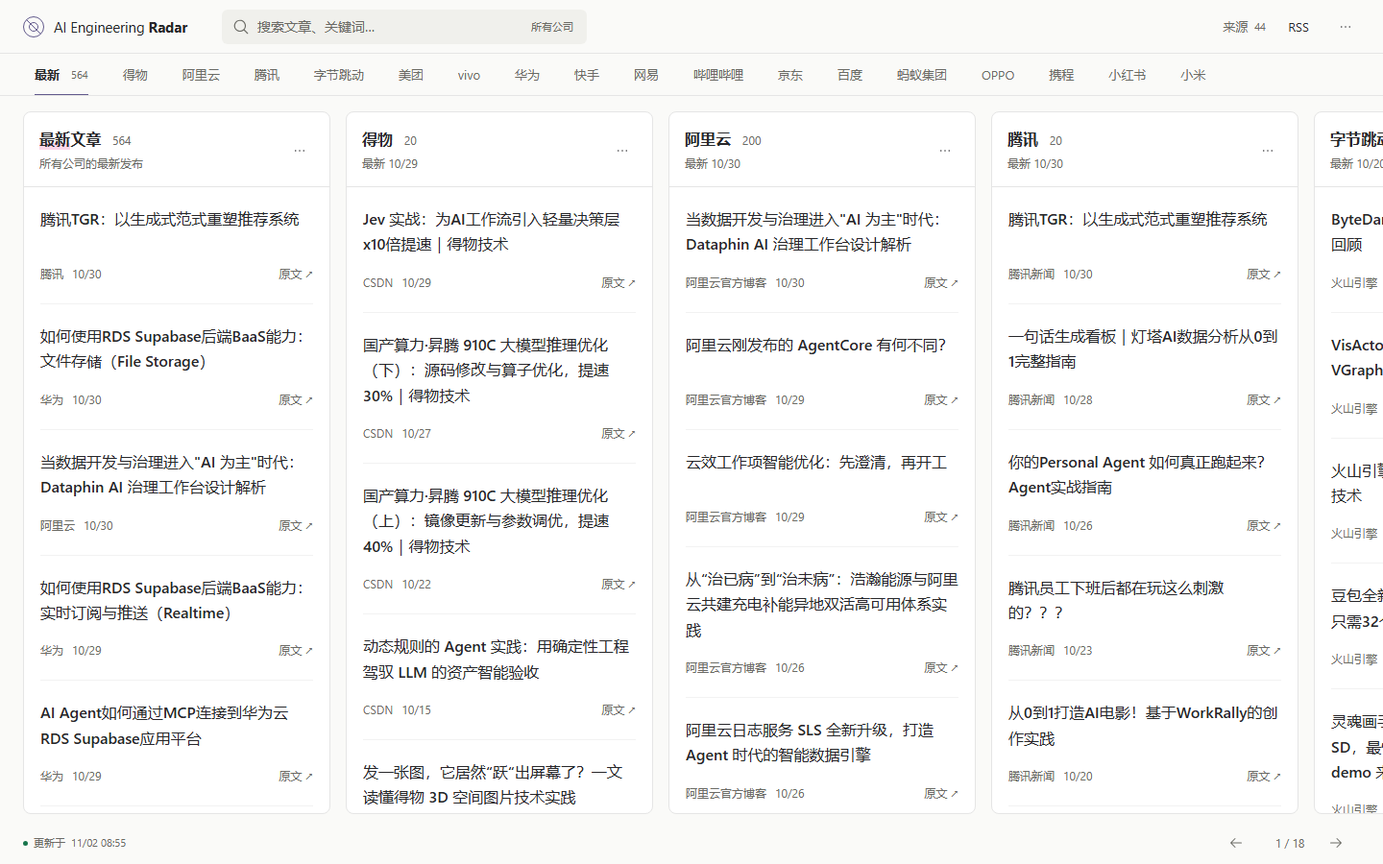
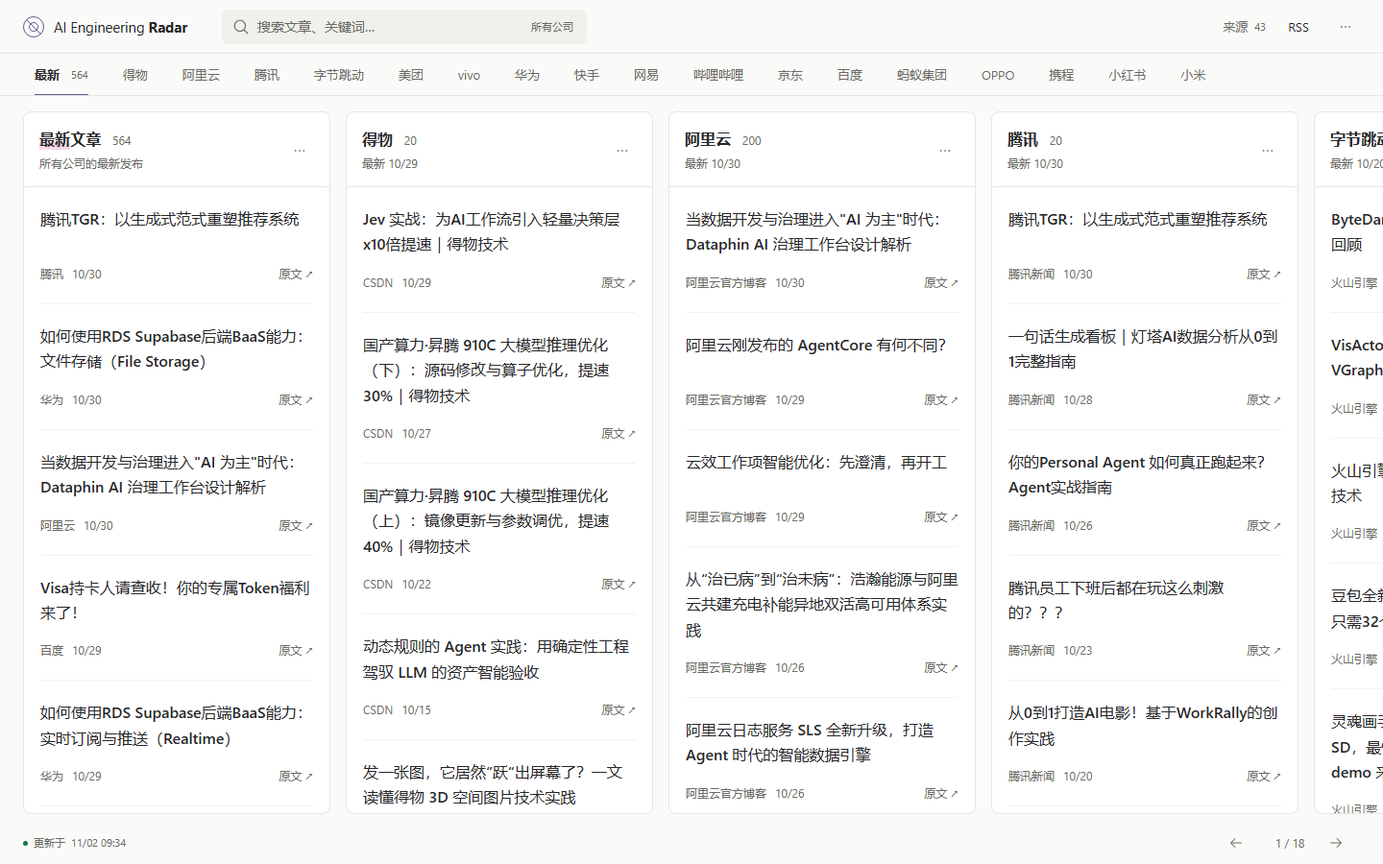
Sources: activate the reviewed Baidu cloud account
按交叉证据启用百度智能云技术站，替换过时百度大脑来源

【提交类型】
功能优化 - 百度官方技术来源

【问题描述】
已找到近期技术站账号，但待核验状态阻止采集和展示。

【原因分析】
1. 直接原因：来源仍处于候选状态，旧百度账号已停更。
2. 根本原因：需要依据现有交叉材料完成人工身份确认。

【修改方案】
1. 记录团队原创、多平台同步及百度社区对应关系，启用账号。
2. 保留逐篇作者与账号路径校验，移除旧百度大脑来源。
3. 同步页面与文档，保留其他公司的待补充状态。

【影响评估】
影响一般，以 20 篇技术站文章替换旧源独占的 20 篇文章。

【兼容性分析】
沿用现有来源 ID，百度订阅地址和其他文章 ID 保持不变。
旧百度大脑独占文章及其详情退出发布。

【需要同时入库的提交】
同次原子推送中的 data 分支快照。

【自测结果】
1. 101 项单元测试、类型检查与静态构建通过。
2. 八项桌面与手机验收通过，百度 RSS 和 Atom 验证通过。
3. 其他来源配置与采集状态保持不变，公开内容检查通过。
4. 相关测试通过，自测通过

Changed region(s): [[0.0312, 0.6533, 0.2188, 0.7156], [0.0312, 0.8089, 0.2188, 0.8711], [0.0312, 0.7467, 0.0625, 0.7778]]

diff --git a/tests/unit/round2-sources.test.ts b/tests/unit/round2-sources.test.ts
@@ -36,12 +36,21 @@ it("accepts the actual case-sensitive OceanBase RSS identity and excludes unrela
     title: "并发查询预测 & 工程实践",
   });
 });
-it("keeps the unconfirmed Baidu account and inaccessible Kuaishou account out of collection", async () => {
-  const r = await loadRegistry();
-  const baidu = r.sources.find((s) => s.id === "baidu-cloud-csdn-candidate")!;
-  expect(baidu.verification.status).toBe("pending");
-  expect(baidu.crawl.enabled).toBe(false);
-  const kuaishou = r.sources.find((s) => s.id === "kuaishou-infoq")!;
+it("collects the reviewed Baidu account while rejecting unrelated authors and account paths", async () => {
+  const baidu = (await loadRegistry()).sources.find(
+    (s) => s.id === "baidu-cloud-csdn-candidate",
+  )!;
+  expect(baidu.verification.status).toBe("verified");
+  expect(baidu.crawl.enabled).toBe(true);
+  const item = (author: string, account: string, id: string) =>
+    `<item><title>KVCache 工程实践</title><link>https://blog.csdn.net/${account}/article/details/${id}</link><author>${author}</author><guid>${id}</guid></item>`;
+  const rss = `<rss version="2.0"><channel>${item("2301_82040283", "2301_82040283", "168653897")}${item("other-author", "2301_82040283", "2")}${item("2301_82040283", "other-account", "3")}</channel></rss>`;
+  expect(parseFeed(rss, baidu).map((a) => a.externalId)).toEqual(["168653897"]);
+});
+it("keeps the inaccessible Kuaishou account out of collection", async () => {
+  const kuaishou = (await loadRegistry()).sources.find(
+    (s) => s.id === "kuaishou-infoq",
+  )!;
   expect(kuaishou.crawl.enabled).toBe(false);
   expect(kuaishou.adapter).toBe("reference");
 });

diff --git a/tests/e2e/site.spec.ts b/tests/e2e/site.spec.ts
@@ -194,6 +194,7 @@ test("domestic provenance, history labels and contribution destinations remain a
     "bytedance-volcengine",
     "ant-ling",
     "ant-oceanbase-csdn",
+    "baidu-cloud-csdn-candidate",
   ]) {
     const source = sources.find((s: { id: string }) => s.id === id);
     expect(source.crawl.enabled).toBe(true);
@@ -205,7 +206,7 @@ test("domestic provenance, history labels and contribution destinations remain a
       (s: { verification: { status: string } }) =>
         s.verification.status === "suspended",
     ).length,
-  ).toBe(5);
+  ).toBe(4);
   for (const { sourceId, replacementIds } of sourceReplacements) {
     expect(sources.some((s: { id: string }) => s.id === sourceId)).toBe(false);
     for (const id of replacementIds)
@@ -230,7 +231,10 @@ test("domestic provenance, history labels and contribution destinations remain a
   ).toBe(true);
   await page.goto("./sources/");
   expect(await page.locator(".source-row").count()).toBeGreaterThanOrEqual(19);
-  expect(await page.getByText("历史渠道", { exact: true }).count()).toBe(5);
+  expect(await page.getByText("历史渠道", { exact: true }).count()).toBe(4);
+  await expect(
+    page.getByRole("heading", { name: "百度智能云技术站 · CSDN", exact: true }),
+  ).toBeVisible();
   await expect(page.getByText(/^最新收录文章/).first()).toBeVisible();
   await expectNoDocumentOverflow(page);
   await page.goto("./");

diff --git a/tests/unit/retire-sources.test.ts b/tests/unit/retire-sources.test.ts
@@ -51,12 +51,12 @@ describe("explicit source retirement", () => {
     const data = fixture();
     const history = structuredClone(data.articles[0]);
     history.id = "00000000000000000002";
-    history.publisherId = "baidu-official";
-    history.companyId = "baidu";
+    history.publisherId = "oppo-official";
+    history.companyId = "oppo";
     history.locations = [
       {
-        sourceId: "baidu-csdn",
-        url: "https://blog.csdn.net/weixin_45449540/article/details/1",
+        sourceId: "oppo-segmentfault",
+        url: "https://segmentfault.com/a/1190000040000001",
       },
     ];
     data.articles.push(history);

diff --git a/packages/source-registry/replacements.ts b/packages/source-registry/replacements.ts
@@ -37,6 +37,11 @@ export const sourceReplacements = [
     companyId: "ant",
     replacementIds: ["ant-ling", "ant-oceanbase-csdn"],
   },
+  {
+    sourceId: "baidu-csdn",
+    companyId: "baidu",
+    replacementIds: ["baidu-cloud-csdn-candidate"],
+  },
 ] as const;
 
 export function validateSourceReplacements(registry: Registry) {

diff --git a/docs/source-acceptance.md b/docs/source-acceptance.md
@@ -1,6 +1,6 @@
 # 来源验收表
 
-快照时间：2026-11-02T00:55:52.805Z
+快照时间：2026-11-02T01:34:18.684Z
 
 | 入口                                                                                    | 身份      | 启用 | 实测状态  | 条目数 | 最新文章                 | 最近成功                 | 说明                                                                                                                                                                                                                                                                                                                                                                                         |
 | --------------------------------------------------------------------------------------- | --------- | ---- | --------- | ------ | ------------------------ | ------------------------ | -------------------------------------------------------------------------------------------------------------------------------------------------------------------------------------------------------------------------------------------------------------------------------------------------------------------------------------------------------------------------------------------- |
@@ -22,7 +22,6 @@
 | [网易 · netease](https://www.163.com/)                                                  | pending   | 否   | pending   | 0      | —                        | —                        | 已找到名为网易智企·数帆的博客园账号 163yun；尚缺官网反向链接或可核验企业认证，保持待核验。                                                                                                                                                                                                                                                                                                   |
 | [B站 · bilibili](https://www.bilibili.com/)                                             | pending   | 否   | pending   | 0      | —                        | —                        | B站官方 ESG 报告确认哔哩哔哩技术公众号与B站账号存在；尚未核定稳定账号 ID 及允许采集的文章目录。                                                                                                                                                                                                                                                                                              |
 | [vivo互联网技术 · CSDN](https://blog.csdn.net/vivo_tech)                                | verified  | 是   | success   | 20     | 2026-10-29T03:33:55.000Z | 2026-11-01T12:13:56.095Z | 用户指定账号。公开主页显示企业官方账号认证；稳定用户名 vivo_tech，2019 年以来持续发布 vivo 工程文章。公开账号 RSS 已通过 robots 与真实文章解析验证。                                                                                                                                                                                                                                         |
-| [百度大脑 · CSDN](https://blog.csdn.net/weixin_45449540)                                | suspended | 否   | suspended | 20     | 2026-05-28T12:31:56.000Z | 2026-11-01T10:02:41.767Z | 已核验的历史渠道，暂停新增，保留已有文章与身份依据。2026-11-01复查：最新入库文章为2026-05-28，超过一个月未更新，不能承担当前更新追踪。 原核验说明：账号公开资料标注百度大脑官方内容输出平台及企业官方账号；稳定用户名 weixin_45449540，持续发布飞桨与文心工程内容。HTML 请求返回 521，公开账号 RSS 允许访问并解析成功。                                                                      |
 | [华为云开发者联盟 · CSDN](https://blog.csdn.net/devcloud)                               | verified  | 是   | success   | 20     | 2026-10-30T08:46:50.000Z | 2026-11-01T12:13:56.672Z | 公开博客标注华为云官方博客；华为云开发者联盟企业微博列出 CSDN 渠道，文章长期关联华为云产品实践。限定稳定用户名 devcloud，公开账号 RSS 解析成功。                                                                                                                                                                                                                                             |
 | [快手技术 · CSDN](https://blog.csdn.net/kuaishoutech)                                   | verified  | 是   | success   | 20     | 2026-10-15T08:29:11.000Z | 2026-11-01T12:13:57.231Z | 人工核验：快手技术思否资料明确快手官方技术号，CSDN 与该号持续发布相同快手团队实践和活动。限定稳定用户名 kuaishoutech；HTML 请求返回 521，公开账号 RSS 允许访问并解析成功。                                                                                                                                                                                                                   |
 | [蚂蚁技术研究院 · CSDN](https://blog.csdn.net/AntResearch)                              | pending   | 否   | pending   | 0      | —                        | —                        | 已找到 AntResearch 稳定账号，公开 RSS 允许访问且解析 20 条；文章涉及蚂蚁研究院与团队实践。暂未取得足以确认此具体账号官方归属的资料，保留待核验且关闭采集。                                                                                                                                                                                                                                   |
@@ -46,5 +45,5 @@
 | [字节跳动开源 · 火山引擎](https://developer.volcengine.com/user/1333053764416295)       | verified  | 是   | success   | 20     | 2026-10-20T12:14:30.000Z | 2026-11-01T12:14:07.230Z | 字节系自有火山引擎社区的字节跳动开源团队账号，稳定作者ID1333053764416295。原文7698691370294181915署名字节跳动STE团队，公开SSR中作者ID与publish_time对应2026-10-20；与原开源官网团队内容交叉印证。仅采该作者目录，逐条验证稳定ID，不将火山引擎整站当成官方团队。                                                                                                                              |
 | [蚂蚁百灵 · 官方博客](https://developer.ant-ling.com/zh-CN/blogs)                       | verified  | 是   | success   | 23     | 2026-10-14T16:00:00.000Z | 2026-11-02T00:52:25.991Z | 蚂蚁百灵自营开发者博客，页面页脚明确蚂蚁智能（杭州）科技有限公司及备案信息，主站说明为Ant Group foundation model platform。普通公开HTTP与robots校验通过，目录及详情原始发布日期一致，最新2026-10-15；仅采集官网博客卡片，不追踪页面中的微信外链。                                                                                                                                            |
 | [OceanBase 数据库 · CSDN](https://blog.csdn.net/OceanBaseGFBK)                          | verified  | 是   | success   | 20     | 2026-10-29T02:39:19.000Z | 2026-11-02T00:52:30.778Z | CSDN正常公开HTML明确展示企业官方账号认证，机构为北京奥星贝斯科技有限公司，账号为OceanBase数据库官方博客。OceanBase官网及蚂蚁集团官网管理团队资料明确集团与数据库团队关联；独立发布主体建模，只收该企业账号。公开RSS实测20条，作者及原文路径大小写均为OceanBaseGFBK，最新2026-10-29。                                                                                                         |
-| [百度智能云技术站 · CSDN（待核验）](https://blog.csdn.net/2301_82040283)                | pending   | 否   | pending   | 0      | —                        | —                        | 找到近期技术站账号，公开RSS实测20条，近月8篇，最新2026-10-29。与百度自有社区和掘金长期同题、多个CSDN发布日期早于百度社区数分钟；但未找到此具体账号的企业认证、官方渠道声明或可核验机构字段，不能把同题同步当作账号归属证明，暂不启用。                                                                                                                                                       |
+| [百度智能云技术站 · CSDN](https://blog.csdn.net/2301_82040283)                          | verified  | 是   | success   | 20     | 2026-10-29T14:25:14.000Z | 2026-11-02T01:31:02.078Z | 经维护者按现有交叉证据人工确认，为百度智能云技术团队发布渠道。账号持续发表团队原创工程文章，与同品牌掘金及百度自有社区长期近同步；RLinf、KVCache 等多篇 CSDN 原始发文先于百度社区数分钟。依据上述团队内容、账号连续性和自有社区对应关系核验，不以企业认证徽标为前提。限定稳定用户名2301_82040283及同账号文章路径，公开RSS实测可采集。                                                        |
 | [快手技术 · InfoQ（访问受限）](https://www.infoq.cn/profile/9F668A31E16108?menu=)       | verified  | 否   | reference | 0      | —                        | —                        | 平台企业号显示快手官方技术号及北京达佳互联信息技术有限公司，113篇中包含更多推理平台和研发实践文章。普通HTTP返回客户端空壳，正常浏览器实际访问HTTP451；没有可持续公开目录，不启用采集，不绕过访问限制。                                                                                                                                                                                       |

diff --git a/docs/source-research-round2.md b/docs/source-research-round2.md
@@ -13,15 +13,20 @@
 
 百灵目录的搜索缓存一度停在 7 月，而原站已更新到 10 月。实际 HTTP 和原文日期优先于搜索摘要。解析器只读取站内文章卡片的标题、短摘要、日期和链接，忽略微信外链，不保存全文。
 
+## 百度补充核验与接入
+
+[百度智能云技术站 CSDN](https://blog.csdn.net/2301_82040283) 已按现有交叉证据完成人工核验并启用。依据包括账号持续发表团队原创工程文章、与[同品牌掘金账号](https://juejin.cn/user/3472695814005120)长期近同步，以及与百度自有社区的多篇原文对应关系。RLinf 的 [CSDN 原文](https://blog.csdn.net/2301_82040283/article/details/168876569)与[百度社区版本](https://cloud.baidu.cn/article/9266017)、KVCache 的 [CSDN 原文](https://blog.csdn.net/2301_82040283/article/details/168653897)与[百度社区版本](https://cloud.baidu.cn/article/9259348)均可交叉核对，CSDN 原始发文先于百度社区数分钟。核验采用上述材料，不以企业认证徽标为前提。
+
+公开 RSS 真实采集 20 篇，近月 8 篇，最新 2026-10-29。采集继续逐篇校验用户名 `2301_82040283` 与文章账号路径。旧百度大脑 `weixin_45449540` 已移除；小米、OPPO、携程、小红书及快手长文渠道的待补充状态保持不变。
+
 ## 仍未解决的公司
 
-| 公司   | 新发现或实测结果                                                                                                                                                                           | 尚缺什么                                                                                                                                                                                              |
-| ------ | ------------------------------------------------------------------------------------------------------------------------------------------------------------------------------------------ | ----------------------------------------------------------------------------------------------------------------------------------------------------------------------------------------------------- |
-| 百度   | [CSDN 技术站](https://blog.csdn.net/2301_82040283)公开 RSS 20 篇，近月 8 篇，最新 10-29；与百度自有社区、掘金长期近同步。部分 CSDN 原始发文早于百度社区数分钟。                            | 未找到此具体账号的企业认证、官方渠道声明或机构字段。同题同步能证明内容关联，不能单独证明账号归属，登记为待核验且禁用。另一个企业号 `weixin_48493350` 的真实 RSS 最新为 5-27，主页近期日期是更新时间。 |
-| 小米   | MiMo 客户端壳已解开，材料研究文章的[官方 iframe](https://mimo.xiaomi.com/mimo-v2-6-material-research/zh.html)原始日期为 9-21，工具调用复盘为 9-27。技术官网目录的 10-14 不能替代原文日期。 | 未找到近月可持续采集的官方社区目录。`tech.mi.com/robots.txt` 禁止 `/index/`，未请求该目录 API。近期微博、媒体线索不足以替代博客目录。                                                                 |
-| OPPO   | 找到 [MadeAgents 研究团队博客](https://madeagents.ai/blog/)，普通 HTML 200、12 篇，团队身份可由论文和公司邮箱交叉确认。                                                                    | 博客最新为 2-14，主页动态最新为 7-14；仍未定位近月官方技术博客。                                                                                                                                      |
-| 携程   | 腾讯云 UID `1292807`、专栏 `2048`、掘金及 Medium `@trip-tech` 均有旧文章；Medium 最新真实日期为 2025-10-21。新的 DevMaster 微信原文短链已找到。                                            | 微信普通请求进入验证码，原始日期未核实；InfoQ 正常浏览器返回 451。尚无近月可持续自动采集的官方目录。                                                                                                  |
-| 小红书 | 扩查了 CSDN、掘金、InfoQ、知乎和 AllSpark 官方研究组织。AllSpark 身份可信，但主要为论文、模型与活动。                                                                                      | 现有社区账号仍停在旧内容；近月微信原文受验证码限制，未取得可用官方技术文章目录。                                                                                                                      |
+| 公司   | 新发现或实测结果                                                                                                                                                                           | 尚缺什么                                                                                                                              |
+| ------ | ------------------------------------------------------------------------------------------------------------------------------------------------------------------------------------------ | ------------------------------------------------------------------------------------------------------------------------------------- |
+| 小米   | MiMo 客户端壳已解开，材料研究文章的[官方 iframe](https://mimo.xiaomi.com/mimo-v2-6-material-research/zh.html)原始日期为 9-21，工具调用复盘为 9-27。技术官网目录的 10-14 不能替代原文日期。 | 未找到近月可持续采集的官方社区目录。`tech.mi.com/robots.txt` 禁止 `/index/`，未请求该目录 API。近期微博、媒体线索不足以替代博客目录。 |
+| OPPO   | 找到 [MadeAgents 研究团队博客](https://madeagents.ai/blog/)，普通 HTML 200、12 篇，团队身份可由论文和公司邮箱交叉确认。                                                                    | 博客最新为 2-14，主页动态最新为 7-14；仍未定位近月官方技术博客。                                                                      |
+| 携程   | 腾讯云 UID `1292807`、专栏 `2048`、掘金及 Medium `@trip-tech` 均有旧文章；Medium 最新真实日期为 2025-10-21。新的 DevMaster 微信原文短链已找到。                                            | 微信普通请求进入验证码，原始日期未核实；InfoQ 正常浏览器返回 451。尚无近月可持续自动采集的官方目录。                                  |
+| 小红书 | 扩查了 CSDN、掘金、InfoQ、知乎和 AllSpark 官方研究组织。AllSpark 身份可信，但主要为论文、模型与活动。                                                                                      | 现有社区账号仍停在旧内容；近月微信原文受验证码限制，未取得可用官方技术文章目录。                                                      |
 
 ## 快手补充渠道
 
@@ -31,6 +36,6 @@
 
 ## 维护与验证
 
-注册表中的 `verified` 表示身份核验，`crawl.enabled` 表示是否启用，采集状态表示实际运行结果，三者分别展示。百度候选的 RSS 可读和快手 InfoQ 的企业身份，均不代表已完成可用来源接入。
+注册表中的 `verified` 表示身份核验，`crawl.enabled` 表示是否启用，采集状态表示实际运行结果，三者分别展示。百度已在人工复核及真实采集后启用。快手 InfoQ 的企业身份不代表已有可采集目录，继续关闭采集。
 
 迁移会拒绝删除缺少实际采集证据的旧源记录。恢复数据时优先选择首次完成替换之后的合法快照。如果必须恢复更早的快照，需要在保留旧源的临时配置中先采集替代渠道，再执行显式迁移。代码与数据准备完成后同时发布，避免线上读取到缺少替代证据的中间状态。当前来源与实测状态见[来源验收表](source-acceptance.md)和[线上目录](https://liuminxin45.github.io/ai-engineering-radar/sources/)。

diff --git a/README.md b/README.md
@@ -41,7 +41,7 @@ PC：公司分列，横向浏览。
 
 来源是否经过身份核验、是否启用、是否采集成功是三个独立状态，均可在来源目录查看。待核验账号可以继续补充官方证据；缺少文章目录的入口可以继续贡献适配器。
 
-来源还需要核查近期活跃度。HTTP 成功或能解析历史文章，不代表覆盖了近期更新。超过一个月没有新文章的渠道会人工复查。尚无可靠替代的过时来源暂停新增，保留历史；替代渠道已核验并真实采集后，移除指定旧源及仅由旧源支撑的文章，不按文章年龄自动删除。得物、阿里、字节、腾讯、网易、快手和蚂蚁的 7 个旧渠道已完成替换。第二轮新增蚂蚁百灵官网博客和 OceanBase 企业 CSDN 账号；百度的新 CSDN 候选尚缺账号归属证据，快手 InfoQ 企业号访问受限，均未启用采集。仍待补齐的来源见[来源核验记录](docs/source-research.md)。
+来源还需要核查近期活跃度。HTTP 成功或能解析历史文章，不代表覆盖了近期更新。超过一个月没有新文章的渠道会人工复查。尚无可靠替代的过时来源暂停新增，保留历史；替代渠道已核验并真实采集后，移除指定旧源及仅由旧源支撑的文章，不按文章年龄自动删除。得物、阿里、字节、腾讯、网易、快手、蚂蚁和百度的 8 个旧渠道已完成替换。百度智能云技术站 CSDN 已依据团队原创内容、多平台连续同步及百度自有社区的对应关系完成人工核验并启用，企业认证徽标不是唯一依据。小米、OPPO、携程、小红书及快手更完整的长文渠道仍待补充，详见[来源核验记录](docs/source-research.md)。
 
 不保存或提供文章全文，不提供登录、收藏、推荐榜单和评论。文章保留原始语言。
 
